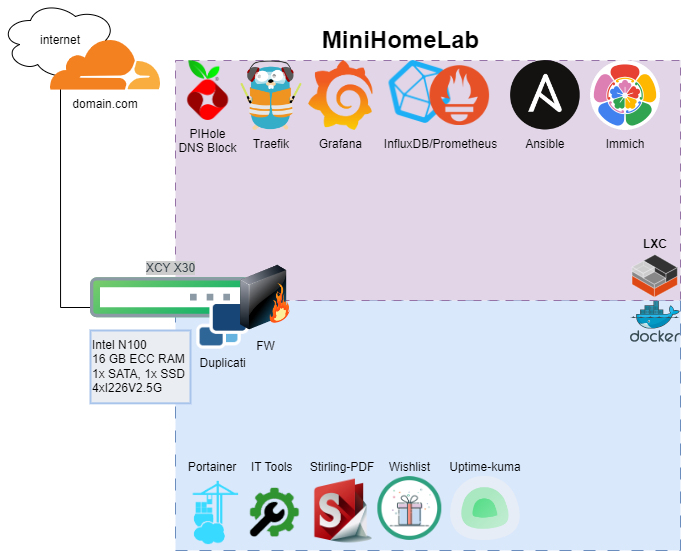
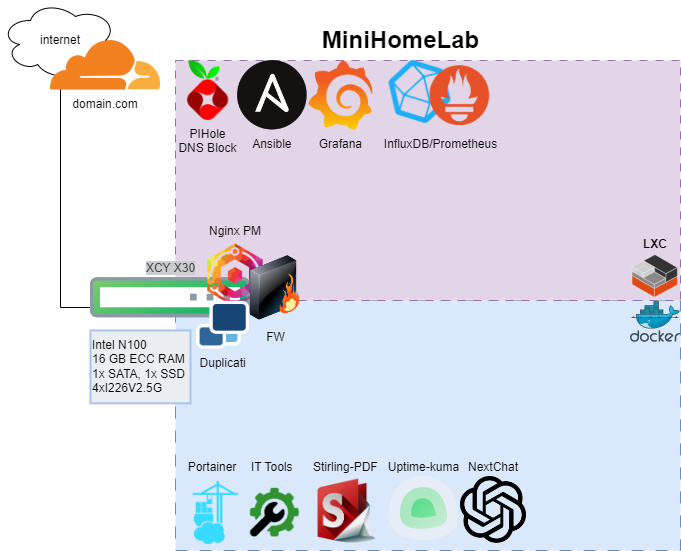
upd img + readme

diff --git a/README.md b/README.md
@@ -4,18 +4,22 @@
 ## Ansible
 Update Debian hosts:
 ```sh
-ansible-playbook -i hosts upd_debian.yml
+ansible-playbook -i hosts /etc/ansible/upd_debian.yml
 ```
-Install prometheus_node_exporter and alert_manager for new host:
+Install prometheus_node_exporter and alert_manager for new hosts:
 ```sh
 ansible-playbook -i hosts /etc/ansible/grafana_stack/install_monitoring.yml
 ```
 
 ## Grafana
+![image](Docs/Img/grafana_pve.png)
 ### Dashboards
 * [Node Exporter Full](https://grafana.com/grafana/dashboards/1860) For VMs and LXC containers
 * [Proxmox Cluster [Flux]](https://grafana.com/grafana/dashboards/15356) For Proxmox
 * [Monitor PI-HOLE ](https://grafana.com/grafana/dashboards/19760-monitor-pi-hole-sparta) For Pi-Hole
 
 ## Backups
-Local backup jobs by schedule + [Duplicati](https://www.duplicati.com/) encrypted backups to Google Drive (temporarily)
+Local backup jobs by schedule + [Duplicati](https://www.duplicati.com/) encrypted backups to Google Drive
+
+## Public domains
+[Cloudflare tunnel](https://www.cloudflare.com/products/tunnel/) + [Nginx Proxy Manager](https://nginxproxymanager.com/) provides easy access to the homelab from the internet with HTTPS and strict allow policys
